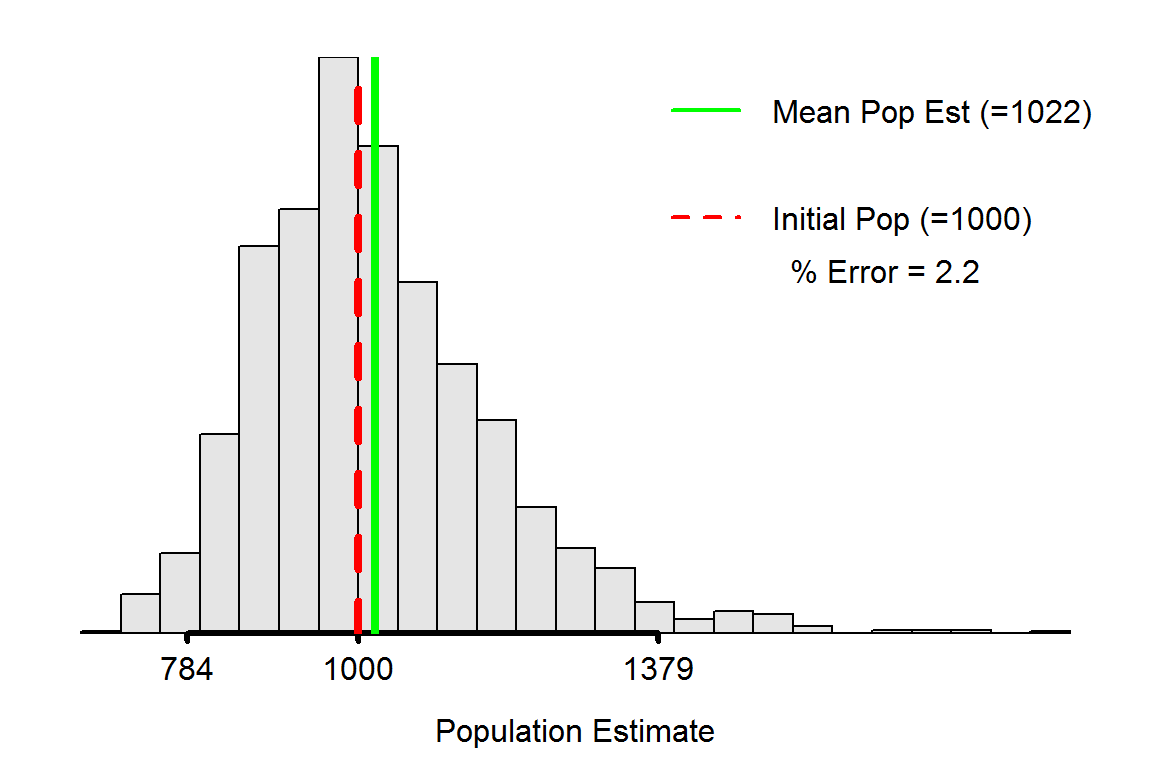
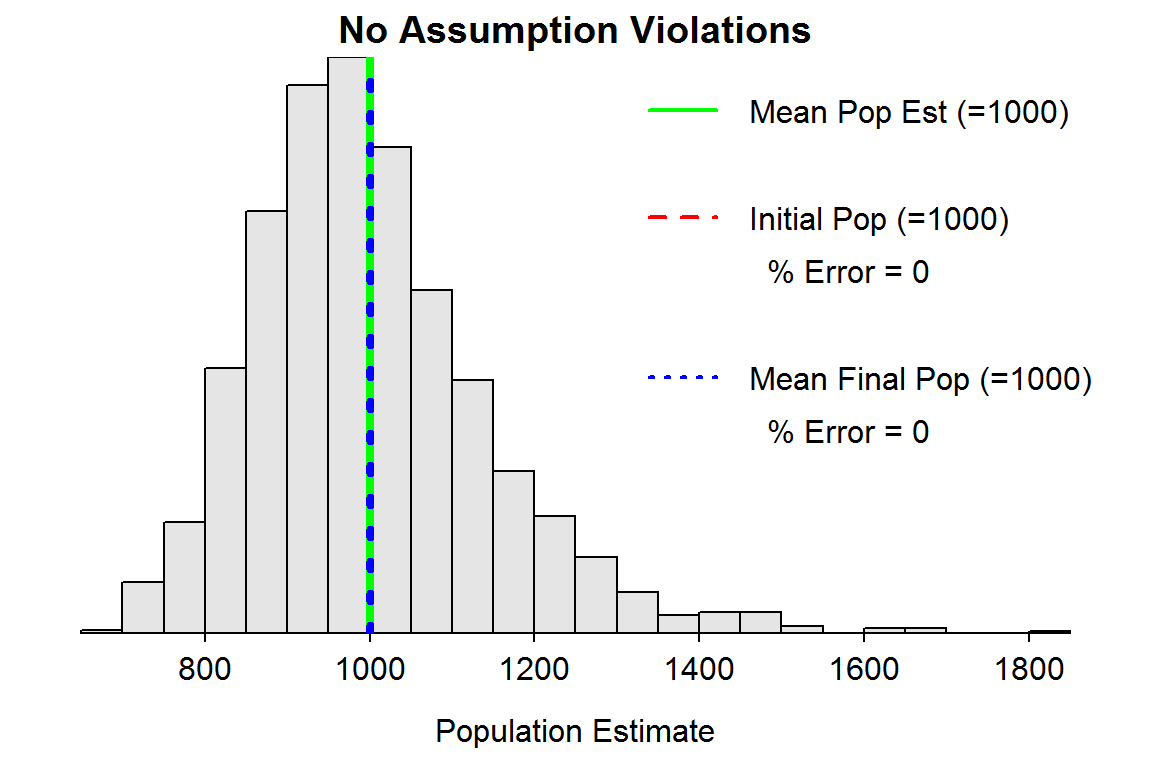
again

diff --git a/modules/Abundance/MarkRecap/CE2c.html b/modules/Abundance/MarkRecap/CE2c.html
@@ -15,7 +15,7 @@ css: /css/modules.css
 <h4>Simulation Description</h4>
 <p>The <code>mrClosed1Sim()</code> function in the  package was introduced on the first page of this exercise. That function can also be used to assess assumption violations by using <code>sim=&quot;assumptions&quot;</code> as an argument.</p>
 <p>The same type of histogram will be produced as described earlier. However, in some simulations the population will not be closed and thus a final population size will exist and may be different than the initial population size. Thus, this histogram will be further augmented with a blue vertical line at the mean final population abundance and the percentage error of the population abundance estimated from this value will be computed and printed on the graph.</p>
-<pre class="r"><code>&gt; mrClosed1Sim(sim=&quot;distribution&quot;)</code></pre>
+<pre class="r"><code>&gt; mrClosed1Sim(sim=&quot;assumptions&quot;)</code></pre>
 <p><img src="CE2c_files/figure-html/unnamed-chunk-3-1.png" title="" alt="" width="576" /></p>
 <p>As before, this plot will have a gear icon in the upper-left corner that will open a dialog box that allows you to change the estimation method (default is Chapman) and several population values as described below.</p>
 <ul>
@@ -23,7 +23,7 @@ css: /css/modules.css
 <li><code>PR(Surv Tagged)</code> is the probability of survival for marked fish between the first and second samples. A value of one (the default) indicates no mortality.</li>
 <li><code>PR(Surv UNtagged)</code> is the probability of survival for unmarked fish between the first and second samples. If this value is the same as <code>PR(Surv Marked)</code>, then survival/mortality does not differ between marked and unmarked fish.</li>
 <li><code>Proportion Recruit</code> is the proportion of the population alive after the first sample that will recruit to the population prior to the second sample. A value of zero (the default) indicates no recruitment.</li>
-<li><code>Ratio PR(Capture)</code> is the ratio of the probability of capture of marked fish to the probability of capture of unmarkd fish for the second sample. Values greater than one indicate that marked fish are more likely to be captured than unmarked fish, whereas values less than one indicate that marked fish are less likely to be captured than unmarked fish. A value of one (the default) indicates that the probabilities of capture are the same between marked and unmarked fish.</li>
+<li><code>PR(Capture) Ratio (M/U)</code> is the ratio of the probability of capture of marked fish to the probability of capture of unmarkd fish for the second sample. Values greater than one indicate that marked fish are more likely to be captured than unmarked fish, whereas values less than one indicate that marked fish are less likely to be captured than unmarked fish. A value of one (the default) indicates that the probabilities of capture are the same between marked and unmarked fish.</li>
 </ul>
 <p>Note that the title to the plot will describe the type of assumption violation (if any) being simulated.</p>
 <p> </p>
